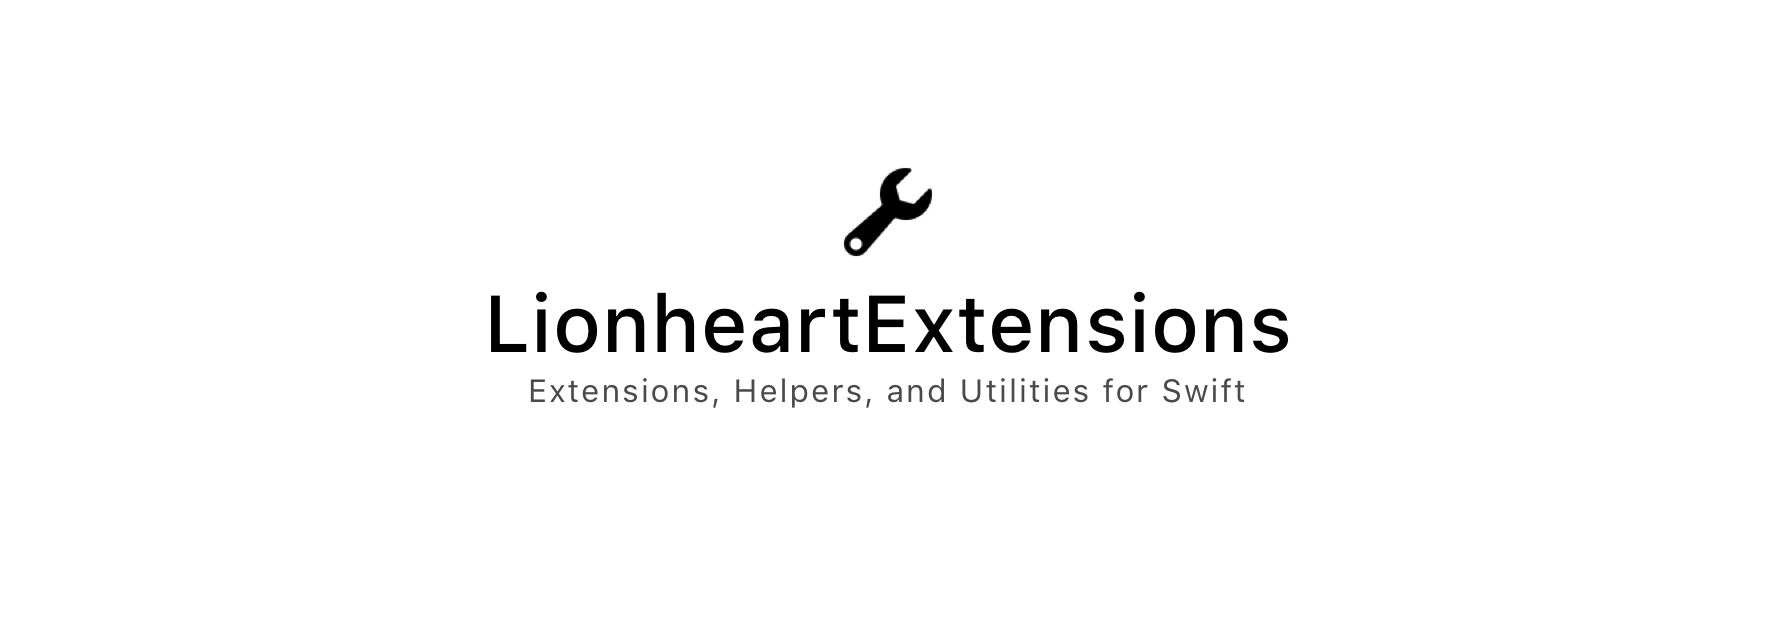
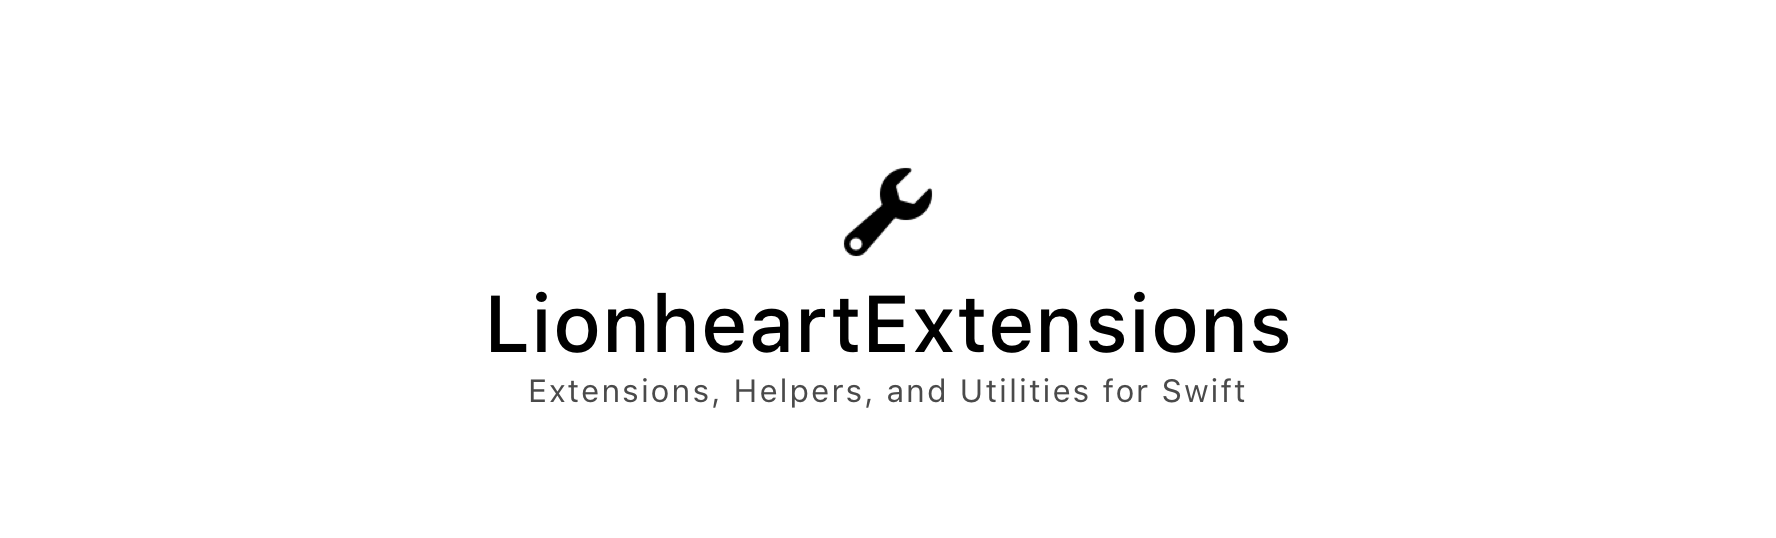
update README

Changed region(s): [[0.2787, 0.2677, 0.7432, 0.6543], [0.2787, 0.7138, 0.7123, 0.7435]]

diff --git a/README.md b/README.md
@@ -15,6 +15,7 @@ limitations under the License.
 -->
 
 ![](meta/repo-banner.png)
+[![](meta/repo-banner-bottom.png)][lionheart-url]
 
 ### An invaluable collection of Swift extensions and utilities for iOS development
 
@@ -97,4 +98,5 @@ LionheartExtensions is available under the Apache 2.0 license. See the [LICENSE]
 [cocoapods-url]: http://cocoapods.org
 [cocoapods-repo-url]: http://cocoapods.org/pods/LionheartExtensions
 [doc-url]: https://code.lionheart.software/LionheartExtensions/
+[lionheart-url]: https://lionheartsw.com/
 
